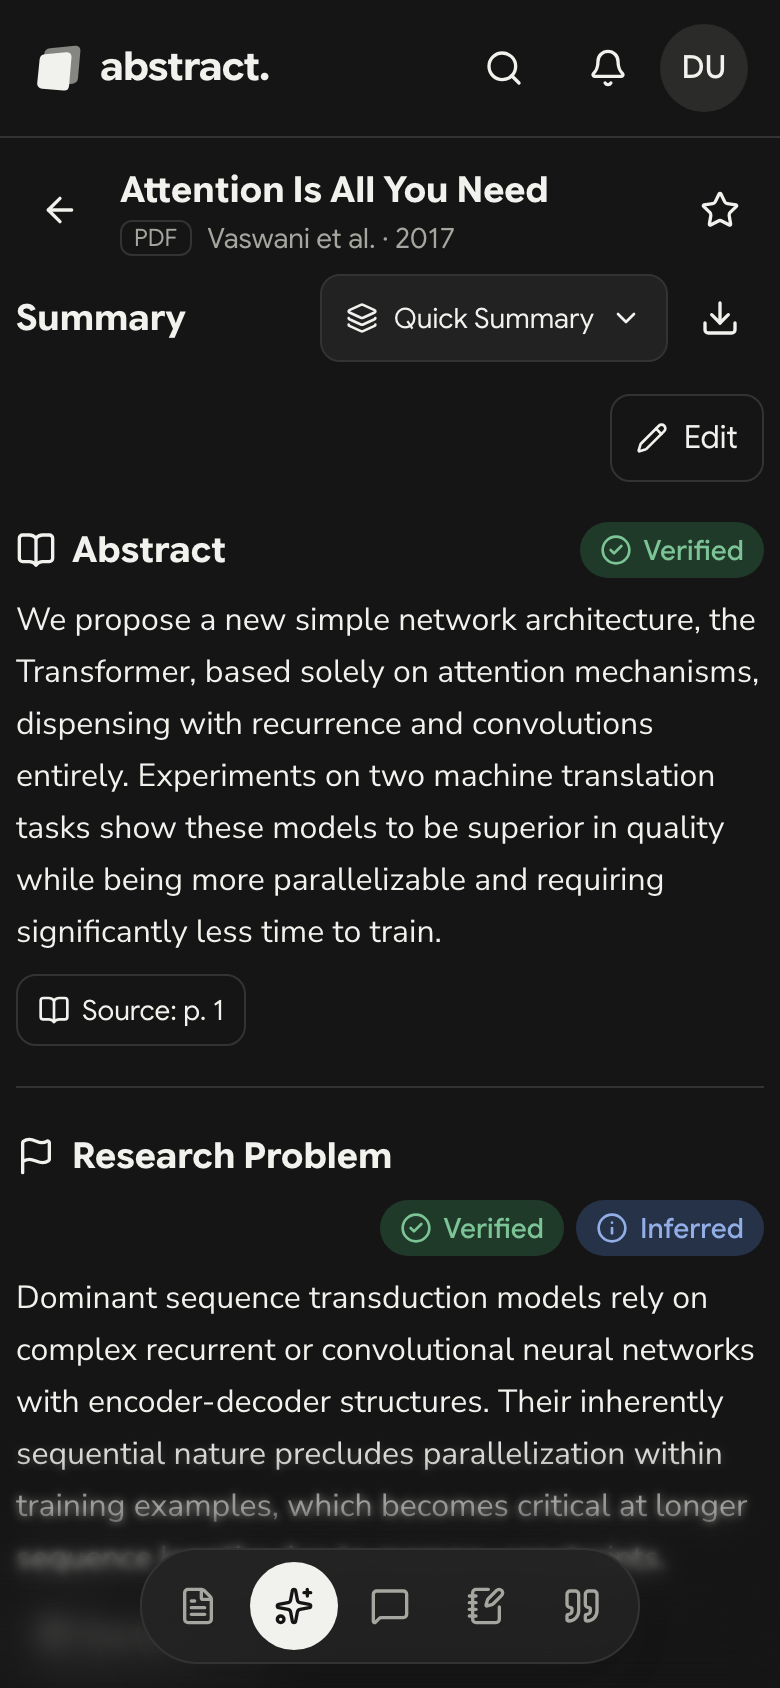
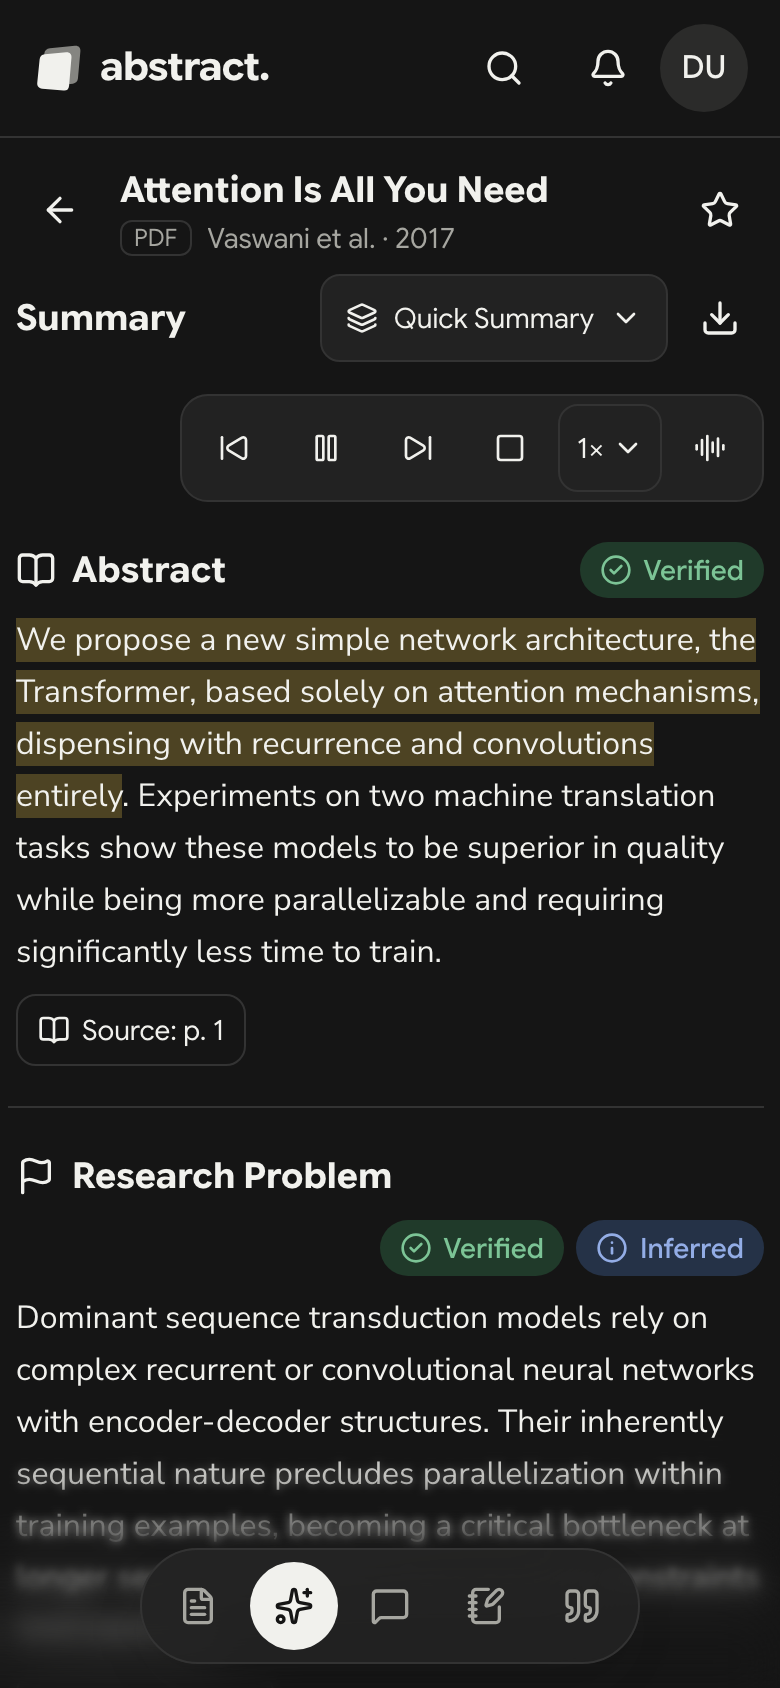
docs: README covers Listen, Speak and Recently deleted
Two feature lines, a voice row in Where the AI runs, a known limit for browser voice support, and the phone summary and chat screenshots replaced (light and dark) to show Listen with the sentence highlighted and the voice bar. Taken on the local stack with the real Attention paper processed on Vertex.

diff --git a/README.md b/README.md
@@ -60,6 +60,8 @@ Reading a paper well takes hours: finding the problem, the method, what was actu
 
 - **Template builder**: design your own summary (up to 10 fields, each with an instruction and a type), drag to reorder, and try it on a paper before saving.
 - **Reading aids**: select any passage to have it explained (plain or expert) or to ask about it.
+- **Listen and speak**: hear any summary or answer read aloud, field by field, with the sentence being read highlighted and citation markers left out; or ask a question by speaking, with the paper's own terms corrected (*blue score* becomes *BLEU score*). It uses the speech built into the browser, so it costs nothing to run, and the engine can be swapped later.
+- **Recently deleted**: a deleted paper stays in a bin for 7 days with its summaries, chats and notes, and can be restored in one tap.
 - **Notes**: a notes page per paper, autosaved, and **Save to notes** on any answer keeps it with its sources.
 - **References**: the paper's own reference list, matched on Semantic Scholar with authors, year, venue, citation count and open-access PDF links.
 - **Library**: search across titles, authors and passages, collections, starring, grid or list.
@@ -92,14 +94,14 @@ Screenshots follow your GitHub theme: switch GitHub to dark mode to see the app 
 
 <img src="docs/images/home-light.png" alt="Home with the upload box and recently opened papers">
 
-**Phone: Home, the summary, and a cited answer**
+**Phone: Home, listening to the summary, and asking by voice**
 
 <p align="center">
   <picture><source media="(prefers-color-scheme: dark)" srcset="docs/images/phone-home-dark.png"><img src="docs/images/phone-home-light.png" alt="Home on a phone" width="250"></picture>
   &nbsp;
-  <picture><source media="(prefers-color-scheme: dark)" srcset="docs/images/phone-summary-dark.png"><img src="docs/images/phone-summary-light.png" alt="Summary on a phone" width="250"></picture>
+  <picture><source media="(prefers-color-scheme: dark)" srcset="docs/images/phone-summary-dark.png"><img src="docs/images/phone-summary-light.png" alt="The summary being read aloud on a phone, with the sentence being read highlighted" width="250"></picture>
   &nbsp;
-  <picture><source media="(prefers-color-scheme: dark)" srcset="docs/images/phone-chat-dark.png"><img src="docs/images/phone-chat-light.png" alt="A cited answer on a phone" width="250"></picture>
+  <picture><source media="(prefers-color-scheme: dark)" srcset="docs/images/phone-chat-dark.png"><img src="docs/images/phone-chat-light.png" alt="Asking Abstract by voice on a phone, with the live waveform and the recognized words" width="250"></picture>
 </p>
 
 | Sign-in | Library |
@@ -180,6 +182,7 @@ The API, workers and Redis run with Docker Compose; the host keeps no user data 
 | Model choice | The **model registry** in Postgres maps each *task* to a model; admins can change it in the Admin panel without a deploy |
 | Tests and CI | A deterministic **fake provider**: no test ever calls a paid model |
 | Tracing | **Langfuse**: one trace per pipeline run, with tokens, cost and latency |
+| Voice | The **browser's own speech engines** (Web Speech API), no AI call and no cost; only counts are recorded, never words or audio |
 
 Models in production today:
 
@@ -357,6 +360,7 @@ I developed Abstract with the assistance of **Claude Code**, working to the same
 
 ## Known limits
 
+- **Voice depends on the browser.** Listening works in all major browsers; speaking is not available in Firefox, and voice quality varies by device. On iPhone, locking the screen stops reading.
 - **Tables and figures are off on the current host** (3.7 GB RAM; Docling needs about 6 GB). They return by moving to an 8 GB instance and setting `ENRICHMENT_ENABLED=true`.
 
 <sub>Diagrams: `docs/diagrams/*.html`, rendered with `node docs/diagrams/render.mjs` (from `apps/web`). Icons from the `diagrams` project, Simple Icons and Lucide.</sub>
